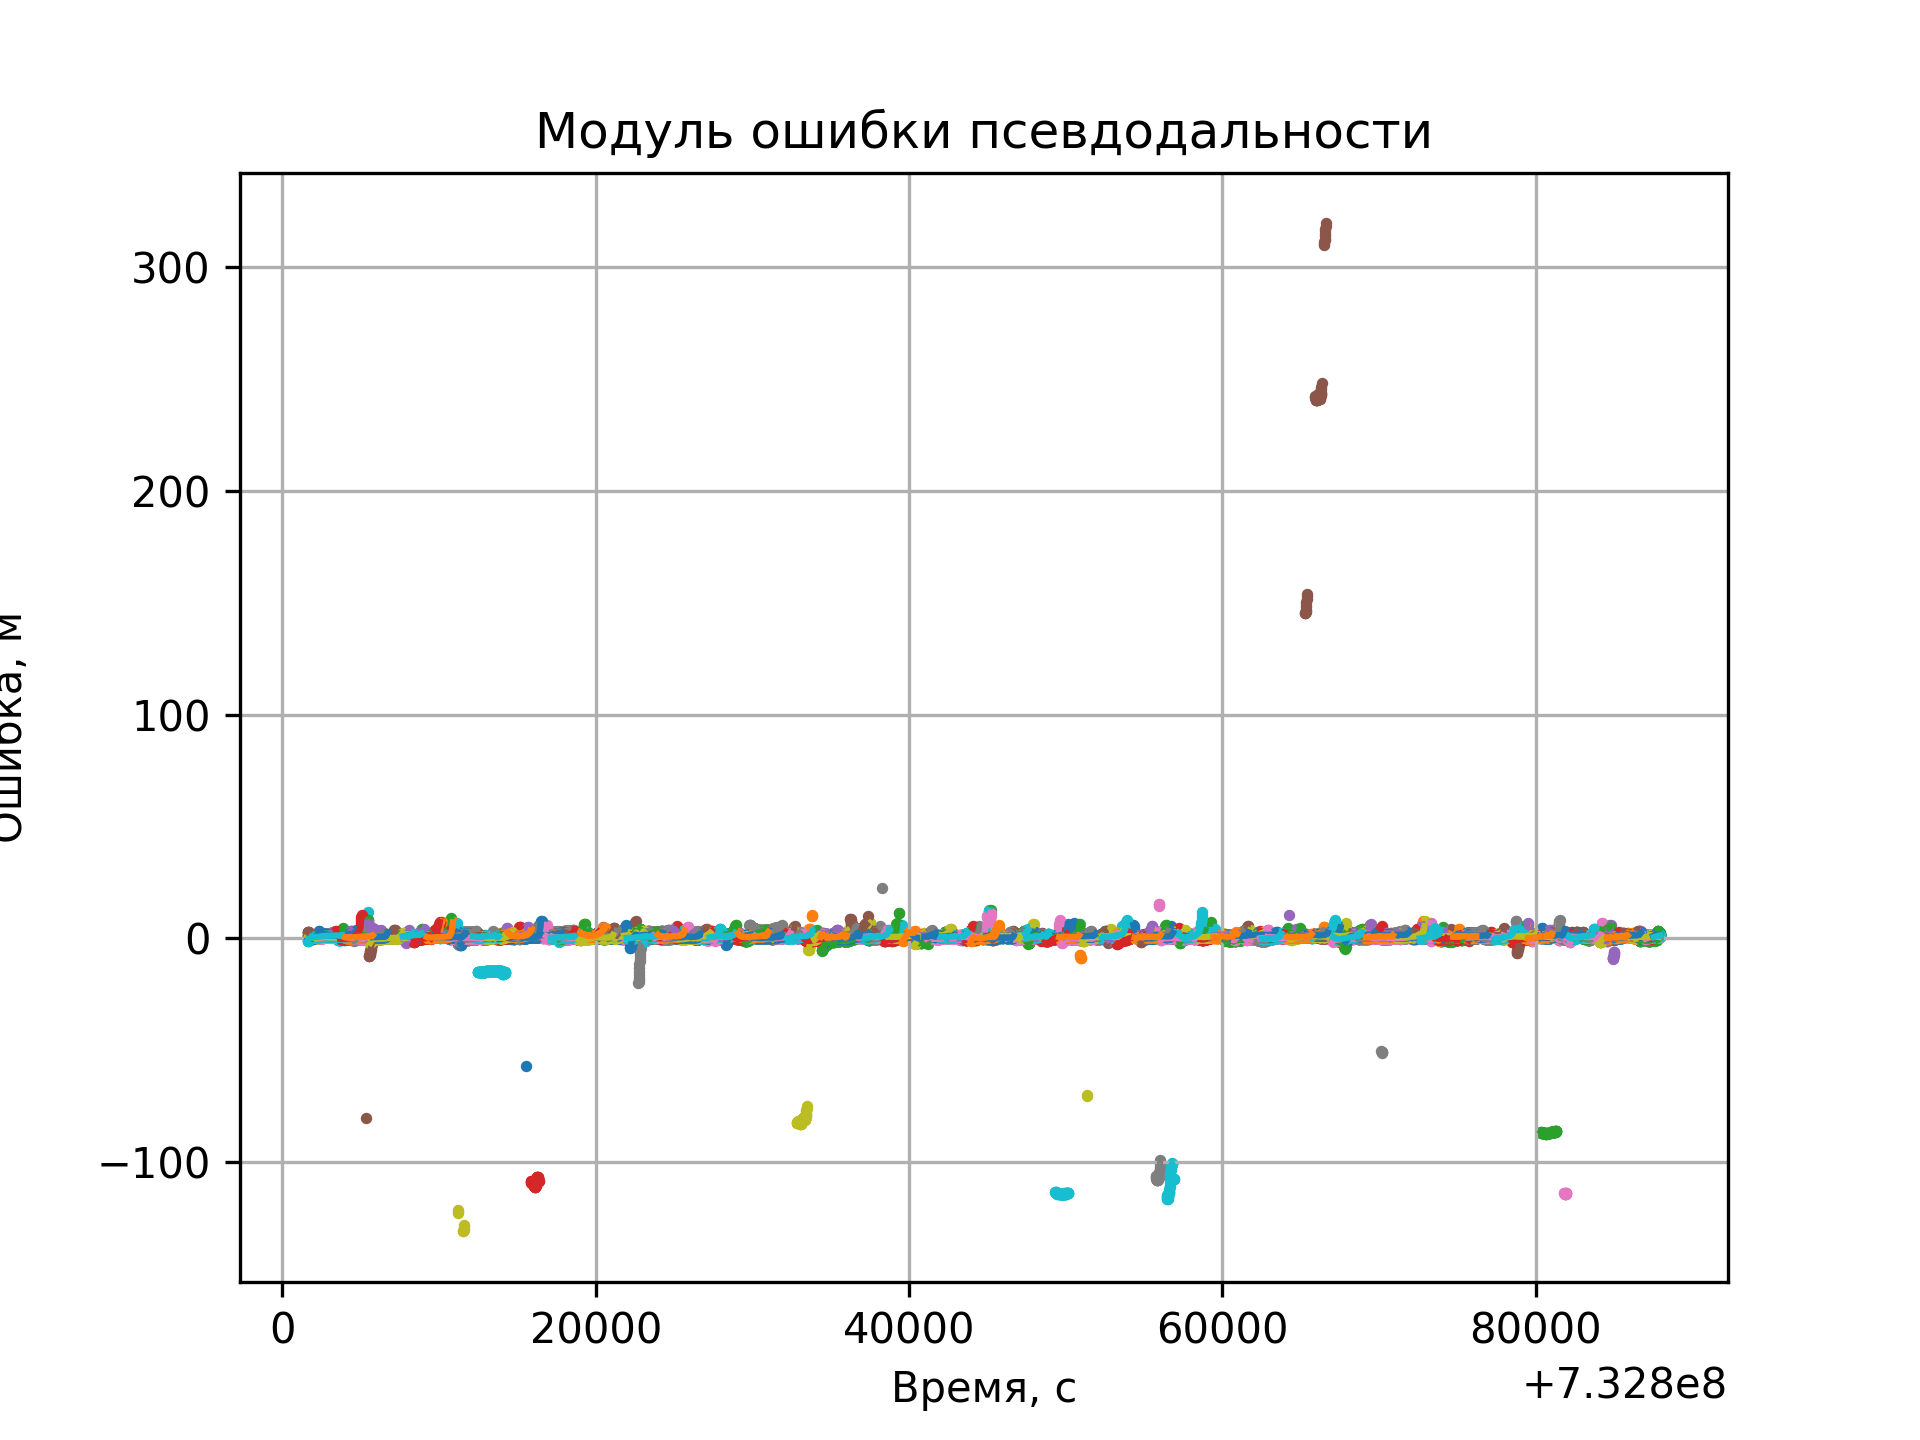
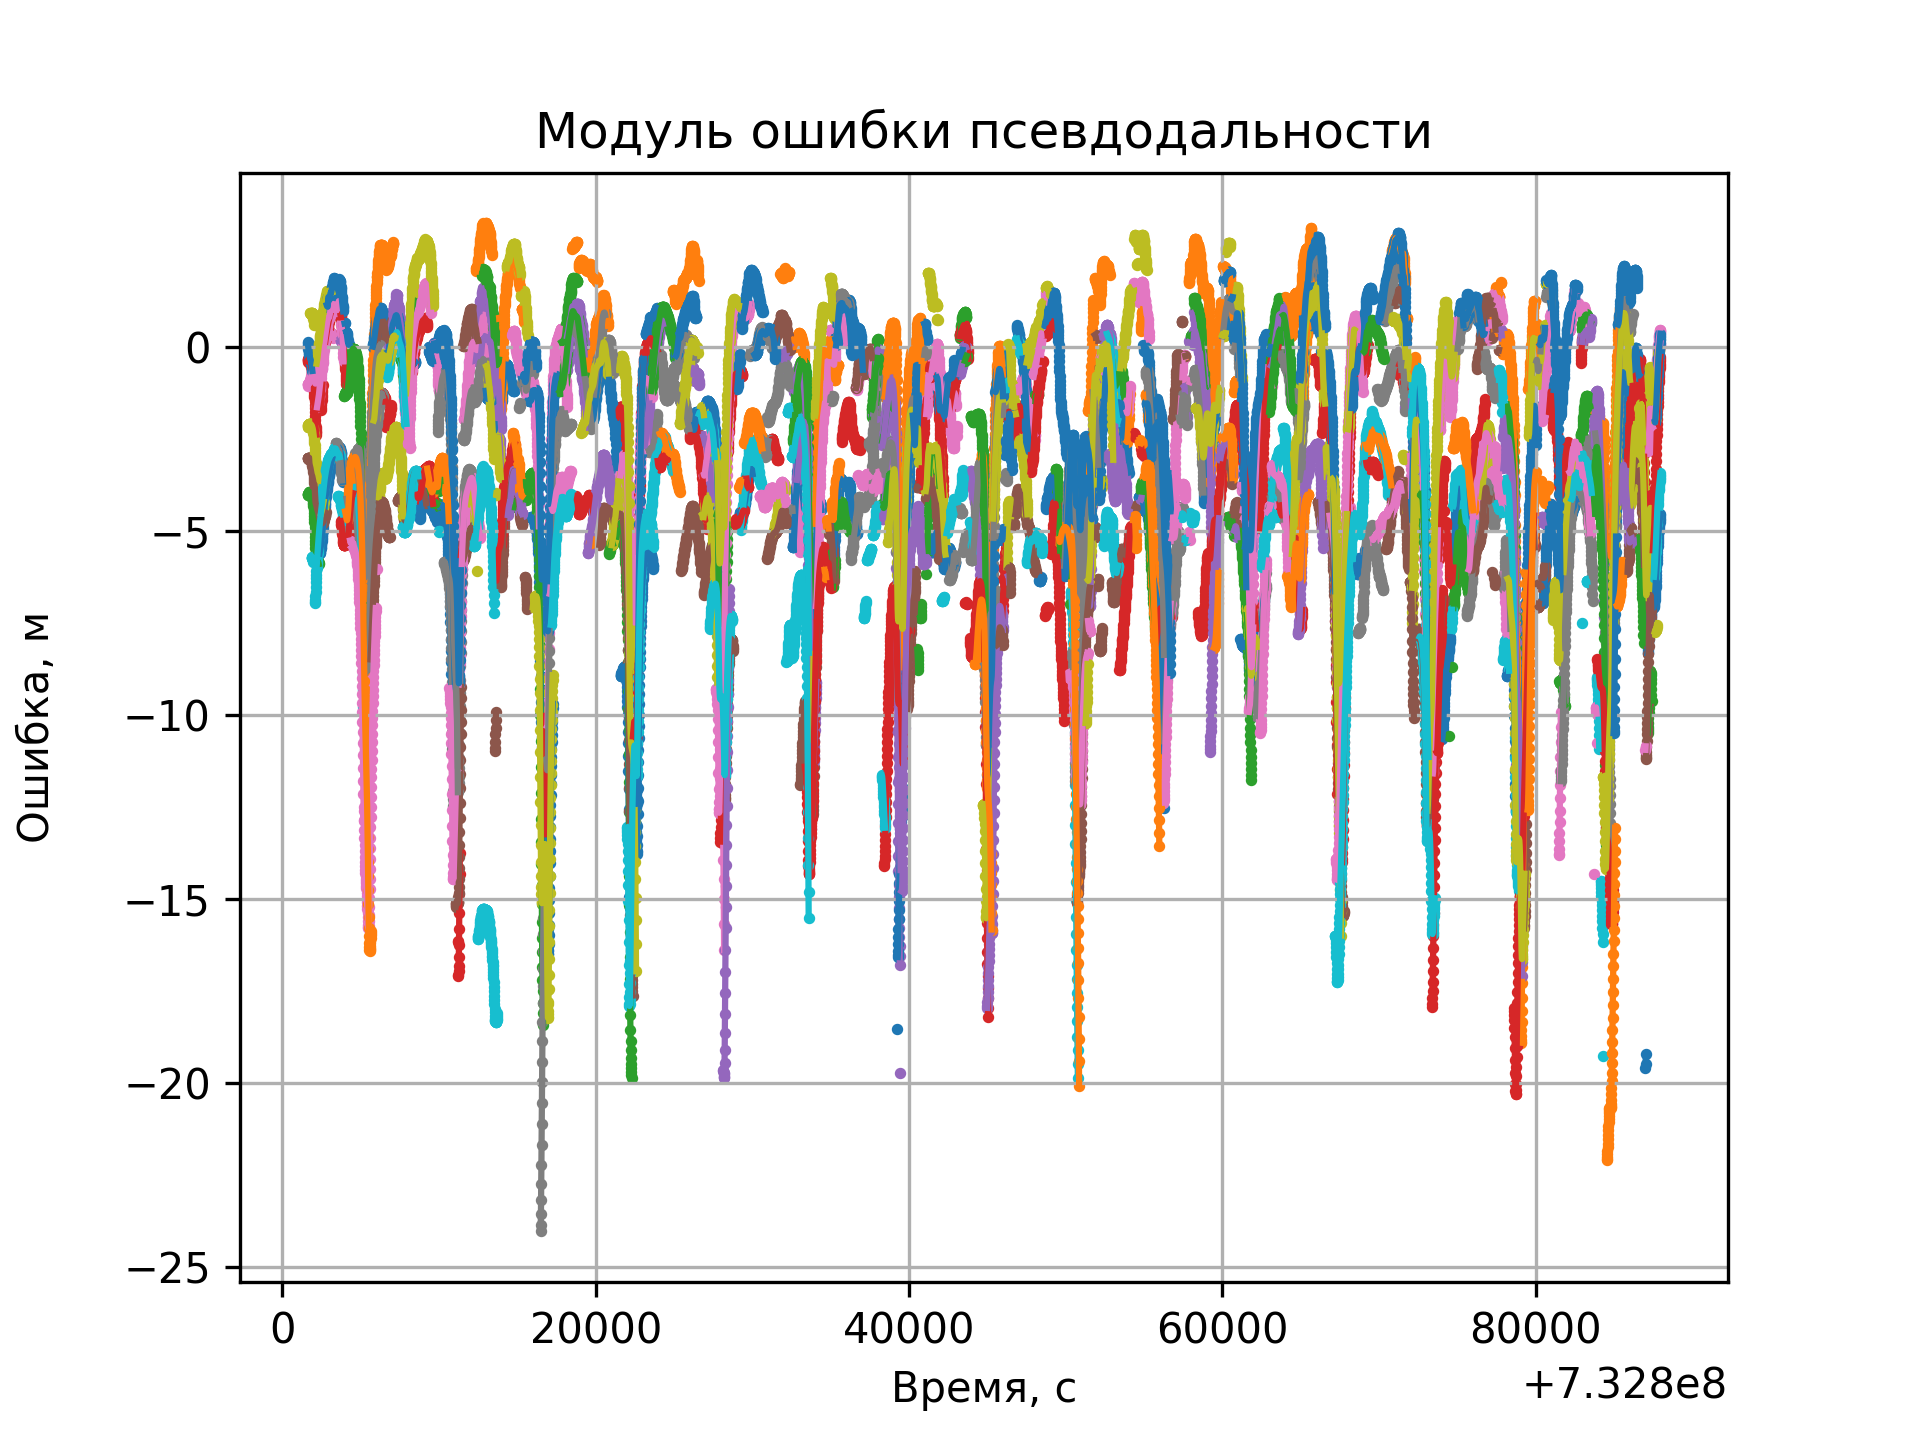
map

diff --git a/src/SatNav.cpp b/src/SatNav.cpp
@@ -2,12 +2,15 @@
 
 SatNav::SatNav(const std::string& gnv_filename, const std::string& gps_filename, 
                const GPSHandler& handler) : handler(handler) {
-    
     true_states = DataParser::load_grace_fo_gnv_data(gnv_filename);
     raw_measurements_groupped = DataParser::load_grace_fo_gps_data(gps_filename);
 }
 
-void SatNav::solve(unsigned ti, unsigned tf, char et) {
+SatNav::SatNav(const SatNav& sn) : handler(sn.handler), 
+                                   true_states(sn.true_states), 
+                                   raw_measurements_groupped(sn.raw_measurements_groupped) { }
+
+void SatNav::solve(char et, unsigned ti, unsigned tf) {     // Очень мало точек, надо разобраться
     logger.log("Beginning to solve...");
 
     error_type = et;
@@ -37,18 +40,23 @@ void SatNav::solve(unsigned ti, unsigned tf, char et) {
                 continue;
             }
 
-            if (raw_m.L1_SNR < SNR_threshold || raw_m.L2_SNR < SNR_threshold) {
-                continue;
+            if (error_type != 'S') {
+                if (raw_m.L1_SNR < SNR_threshold || raw_m.L2_SNR < SNR_threshold) {
+                    continue;
+                }
             }
-
-            if (check_fading(raw_m, raw_mg_it)) {
-                continue;
+            if (error_type != 'F') {
+                if (check_fading(raw_m, raw_mg_it)) {
+                    continue;
+                }
             }
 
             RefinedMeasurement ref_m = refine_raw(raw_m);
 
-            ref_m = hatch_filter(ref_m);
-            
+            if (error_type != 'H') {
+                ref_m = hatch_filter(ref_m);
+            }
+
             ref_ms[prn_index] = ref_m;
         }
 
@@ -56,21 +64,21 @@ void SatNav::solve(unsigned ti, unsigned tf, char et) {
         refined_measurements_groupped.push_back(ref_mg);
 
         SolutionState solution = calculate_solution(ref_mg);
-        if (!solution.is_solved) continue;
 
-        std::vector<unsigned> low = check_low(solution, ref_mg);
-        if (low.size() > 0) {
-            for (unsigned prn_id : low) {
-                unsigned prn_index = prn_id - 1;
-                ref_mg.refined_measurements[prn_index].is_present = false;
+        if (error_type != 'L') {
+            if (solution.is_solved) {
+                std::vector<unsigned> low = check_low(solution, ref_mg);
+                if (low.size() > 0) {
+                    for (unsigned prn_id : low) {
+                        unsigned prn_index = prn_id - 1;
+                        ref_mg.refined_measurements[prn_index].is_present = false;
+                    }
+                    solution = calculate_solution(ref_mg);
+                }
             }
-
-            solution = calculate_solution(ref_mg);
-            if (!solution.is_solved) continue;
         }
 
         solution_states.push_back(solution);
-
     }
    
     error_type = '0';
@@ -82,11 +90,18 @@ RefinedMeasurement SatNav::refine_raw(const RawMeasurement& raw_m) {
     RefinedMeasurement ref_m1 = apply_clock_and_relativistic_errors(raw_m, 1);
     RefinedMeasurement ref_m2 = apply_clock_and_relativistic_errors(raw_m, 2);
 
-    double phi = ref_m1.pseudorange / c * earth_rotation_rate;
-    Matrix rot = rotation(-phi, 'z');
-    std::vector<double> gps_position = rot * ref_m1.gps_position;
-    
-    double pseudorange = ref_m1.pseudorange * C1 + ref_m2.pseudorange * C2;
+    double pseudorange = ref_m1.pseudorange;
+    std::vector<double> gps_position = ref_m1.gps_position;
+
+    if (error_type != 's') {
+        double phi = ref_m1.pseudorange / c * earth_rotation_rate;
+        Matrix rot = rotation(-phi, 'z');
+        gps_position = rot * gps_position;
+    }
+
+    if (error_type != 'I') {
+        double pseudorange = ref_m1.pseudorange * C1 + ref_m2.pseudorange * C2;
+    }
     double carrier_phase = raw_m.L1_phase * C1 + raw_m.L2_phase * C2;
 
     return {true, raw_m.time, raw_m.prn_id, pseudorange, carrier_phase, gps_position};
@@ -119,8 +134,10 @@ RefinedMeasurement SatNav::apply_clock_and_relativistic_errors(const RawMeasurem
 
     GPSState gs = handler.get_state(raw_m.prn_id, raw_m.time - delay);
 
-    double relativistic_error = gs.relativistic_error;
-    delay += relativistic_error;
+    if (error_type != 'R') {
+        double relativistic_error = gs.relativistic_error;
+        delay += relativistic_error;
+    }
 
     return {true, raw_m.time, raw_m.prn_id, delay * c, 0, gs.position};
 }
@@ -287,6 +304,26 @@ const State& SatNav::get_true_state_at(unsigned time) {
     }
 
     return empty_state;
+}
+
+const SolutionState& SatNav::get_solution_state_at(unsigned time) const {
+    unsigned n = solution_states.size();
+
+    unsigned lo = 0, hi = n - 1;
+    while (lo <= hi) {
+        unsigned mid = lo + (hi - lo) / 2;
+        if (solution_states[mid].time == time) {
+            return solution_states[mid];
+        }
+
+        if (solution_states[mid].time < time) {
+            lo = mid + 1;
+        } else {
+            hi = mid - 1;
+        }
+    }
+
+    return empty_solution_state;
 }
 
 const std::vector<SolutionState>& SatNav::get_solution_states() const {

diff --git a/src/Plotter.cpp b/src/Plotter.cpp
@@ -1,12 +1,11 @@
 #include "Plotter.hpp"
 
-Plotter::Plotter(SatNav& problem) : problem(problem) {
+Plotter::Plotter(const SatNav& sn) : problem(sn), problem_copy(sn) {
     problem.solve();
 }
 
 void Plotter::plot_errors_norm(double ymin, double ymax) {
     std::string filename = "errors-norm";
-
     std::ofstream file;
     file.open("../results/" + filename + ".csv", std::fstream::out);
 
@@ -14,6 +13,8 @@ void Plotter::plot_errors_norm(double ymin, double ymax) {
     file << ymin << '\t' << ymax << std::endl;
     
     for (const auto& ss : problem.get_solution_states()) {
+        if (!ss.is_solved) continue;
+
         unsigned time = ss.time;
         State ts = problem.get_true_state_at(time);
 
@@ -29,7 +30,6 @@ void Plotter::plot_errors_norm(double ymin, double ymax) {
 
 void Plotter::plot_errors_pr(double ymin, double ymax) {
     std::string filename = "errors-pr";
-
     std::ofstream file;
     file.open("../results/" + filename + ".csv", std::fstream::out);
 
@@ -62,15 +62,80 @@ void Plotter::plot_errors_pr(double ymin, double ymax) {
     run_py_plotter(filename);
 }
 
-void plot_errors_by_type(char error_type, double ymin = 0, double ymax = 0) {
+void Plotter::plot_errors_by_type(char error_type, double ymin, double ymax) {
+    problem_copy.solve('I');
 
+    std::string filename = "errors-" + error_names[error_type];
+    std::ofstream file;
+    file.open("../results/" + filename + ".csv", std::fstream::out);
+
+    file << error_titles[error_type] << '\t' << "Время, с" << '\t' << "Вклад, м" << std::endl;
+    file << ymin << '\t' << ymax << std::endl;
+    
+    for (const auto& ss : problem.get_solution_states()) {
+        if (!ss.is_solved) continue;
+
+        unsigned time = ss.time;
+        SolutionState copy_ss = problem_copy.get_solution_state_at(time);
+        if (!copy_ss.is_solved) continue;
+
+        double error_norm = abs(ss.position - copy_ss.position);
+
+        file << time << sep << error_norm << std::endl;
+    }
+
+    file.close();
+
+    run_py_plotter(filename);
 }
 
-void plot_map_iono() {
+void Plotter::plot_map_iono() {
+    problem_copy.solve('I');
+
+    std::string filename = "map-iono";
+    std::ofstream file;
+    file.open("../results/" + filename + ".csv", std::fstream::out);
+
+    file << "Ионосферная ошибка" << std::endl;
     
+    for (const auto& ss : problem.get_solution_states()) {
+        if (!ss.is_solved) continue;
+
+        unsigned time = ss.time;
+        SolutionState copy_ss = problem_copy.get_solution_state_at(time);
+        if (!copy_ss.is_solved) continue;
+
+        std::vector<double> geo_coords = ECEF_to_geographycal(ss.position);
+        double error_norm = abs(ss.position - copy_ss.position);
+
+        file << geo_coords[0] << sep << geo_coords[1] << sep << error_norm << std::endl;
+    }
+
+    file.close();
+
+    // run_py_plotter(filename);
 }
 
 void Plotter::run_py_plotter(const std::string& arg) const {
     std::string command = "python3 ../scripts/plotter.py " + arg;
     system(command.c_str());
+}
+
+void Plotter::run_py_map_plotter(const std::string& arg) const {
+    std::string command = "python3 ../scripts/map-plotter.py " + arg;
+    system(command.c_str());
+}
+
+std::vector<double> Plotter::ECEF_to_geographycal(const std::vector<double>& position) {
+    double latitude, longitude;
+
+    double x = position[0];
+    double y = position[1];
+    double z = position[2];
+    double r = sqrt(x * x + y * y + z * z);
+
+    latitude = asin(z / r) * 180.0 * M_1_PI;
+    longitude = atan2(x, y) * 180.0 * M_1_PI;
+
+    return {latitude, longitude};  
 }

diff --git a/src/Plotter.hpp b/src/Plotter.hpp
@@ -4,13 +4,14 @@
 #include <cstdlib>
 
 #include <string>
+#include <map>
 
 #include "LinAlg.hpp"
 #include "SatNav.hpp"
 
 class Plotter {
 public:
-    Plotter(SatNav& problem);
+    Plotter(const SatNav& sn);
     void plot_errors_norm(double ymin = 0, double ymax = 0);
     void plot_errors_pr(double ymin = 0, double ymax = 0);
     void plot_errors_by_type(char error_type, double ymin = 0, double ymax = 0);
@@ -19,9 +20,31 @@ public:
 
 private:
     void run_py_plotter(const std::string& arg) const;
+    void run_py_map_plotter(const std::string& arg) const;
 
+    std::vector<double> ECEF_to_geographycal(const std::vector<double>& position); // сделать отдельную структура гео координат
 
-    SatNav& problem;
+    SatNav problem;
+    SatNav problem_copy;
 
     char sep = ',';
+
+    std::map<char, std::string> error_names = {
+        {'F', "fading"},
+        {'G', "gdop"},
+        {'H', "hatch"},
+        {'I', "iono"},
+        {'L', "low"},
+        {'R', "relativistic"},
+        {'s', "sagnac"},
+        {'S', "snr"}
+    };
+    std::map<char, std::string> error_titles = {
+        {'G', "gdop"},
+        {'H', "hatch"},
+        {'I', "iono"},
+        {'L', "low"},
+        {'R', "relativistic"},
+        {'S', "snr"}
+    };
 };

diff --git a/src/SatNav.hpp b/src/SatNav.hpp
@@ -14,9 +14,13 @@ class SatNav {
 
 public:
     SatNav(const std::string& gnv_filename, const std::string& gps_filename, const GPSHandler& handler);
-    void solve(unsigned ti = 0, unsigned tf = 0, char error_type = '0');
+    SatNav(const SatNav& sn);
+
+    void solve(char et = '0', unsigned ti = 0, unsigned tf = 0);
 
     const State& get_true_state_at(unsigned time);
+    const SolutionState& get_solution_state_at(unsigned time) const;
+
     const std::vector<SolutionState>& get_solution_states() const;
     const std::vector<RefinedMeasurementGroupped>& get_refined_measurements_groupped() const;
 
@@ -37,6 +41,7 @@ private:
     std::vector<RefinedMeasurementGroupped> refined_measurements_groupped;
 
     State empty_state; // костыль для get_true_state_at
+    SolutionState empty_solution_state; // дважды костыль
 
     Logger logger;
 

diff --git a/src/GPSHandler.hpp b/src/GPSHandler.hpp
@@ -14,6 +14,7 @@ class GPSHandler {
 
 public:
     GPSHandler(const std::string& brdc_filename);
+    
     double get_clock_error(unsigned prn_id, double grace_time);
     GPSState get_state(unsigned prn_id, double grace_time);
 

diff --git a/src/main.cpp b/src/main.cpp
@@ -13,6 +13,8 @@ int main() {
     Plotter plotter(problem);
     plotter.plot_errors_norm(0, 30);
     plotter.plot_errors_pr();
+    plotter.plot_errors_by_type('I');
+    // plotter.plot_map_iono();
 
     return 0;
 }

diff --git a/src/LinAlg.hpp b/src/LinAlg.hpp
@@ -58,4 +58,3 @@ std::vector<T> mask(const std::vector<T>& a, const std::vector<bool> m) {
 
     return res;
 }
-
